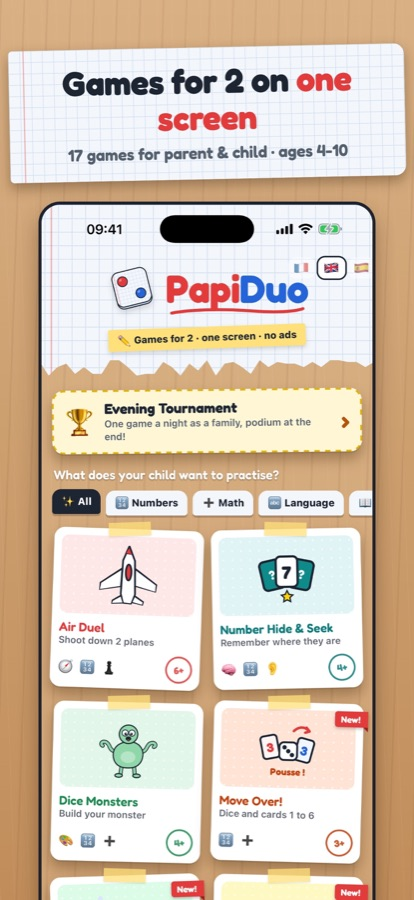
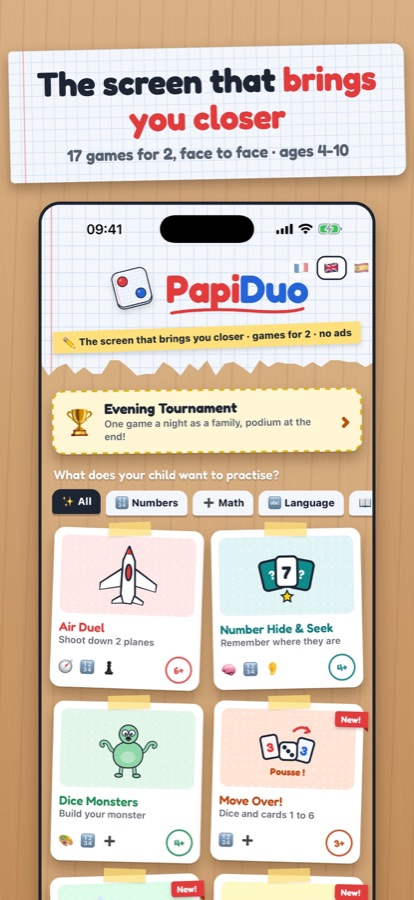
Slogan : L'écran qui rapproche (fr/en/es)

diff --git a/es/index.html b/es/index.html
@@ -1,4 +1,4 @@
-<!DOCTYPE html><html lang="es"><head><meta charset="utf-8"><meta name="viewport" content="width=device-width,initial-scale=1"><title>PapiDuo — Juegos para dos en familia, sin anuncios</title><meta name="description" content="17 juegos educativos para dos en una pantalla para niños de 4 a 10 años y sus padres: cálculo, sonidos, lógica, programación, dibujo. Sin anuncios, sin conexión."><link rel="alternate" hreflang="fr" href="https://otymix.github.io/papiduo/index.html"><link rel="alternate" hreflang="en" href="https://otymix.github.io/papiduo/en/index.html"><link rel="alternate" hreflang="es" href="https://otymix.github.io/papiduo/es/index.html"><link rel="alternate" hreflang="x-default" href="https://otymix.github.io/papiduo/en/index.html"><link rel="icon" href="../assets/favicon.png"><link rel="apple-touch-icon" href="../assets/apple-touch-icon.png"><link rel="stylesheet" href="../assets/site.css"><meta property="og:title" content="PapiDuo — Juegos para dos en familia, sin anuncios"><meta property="og:description" content="17 juegos educativos para dos en una pantalla para niños de 4 a 10 años y sus padres: cálculo, sonidos, lógica, programación, dibujo. Sin anuncios, sin conexión."><meta property="og:image" content="https://otymix.github.io/papiduo/assets/og.jpg"><meta property="og:url" content="https://otymix.github.io/papiduo/es/index.html"><meta name="theme-color" content="#c99a68"></head><body><nav class="wrap"><a class="brand" href="../es/index.html"><svg viewBox="0 0 512 512" aria-hidden="true">
+<!DOCTYPE html><html lang="es"><head><meta charset="utf-8"><meta name="viewport" content="width=device-width,initial-scale=1"><title>PapiDuo — La pantalla que os acerca · juegos para dos en familia</title><meta name="description" content="17 juegos educativos para dos en una pantalla para niños de 4 a 10 años y sus padres: cálculo, sonidos, lógica, programación, dibujo. Sin anuncios, sin conexión."><link rel="alternate" hreflang="fr" href="https://otymix.github.io/papiduo/index.html"><link rel="alternate" hreflang="en" href="https://otymix.github.io/papiduo/en/index.html"><link rel="alternate" hreflang="es" href="https://otymix.github.io/papiduo/es/index.html"><link rel="alternate" hreflang="x-default" href="https://otymix.github.io/papiduo/en/index.html"><link rel="icon" href="../assets/favicon.png"><link rel="apple-touch-icon" href="../assets/apple-touch-icon.png"><link rel="stylesheet" href="../assets/site.css"><meta property="og:title" content="PapiDuo — La pantalla que os acerca · juegos para dos en familia"><meta property="og:description" content="17 juegos educativos para dos en una pantalla para niños de 4 a 10 años y sus padres: cálculo, sonidos, lógica, programación, dibujo. Sin anuncios, sin conexión."><meta property="og:image" content="https://otymix.github.io/papiduo/assets/og.jpg"><meta property="og:url" content="https://otymix.github.io/papiduo/es/index.html"><meta name="theme-color" content="#c99a68"></head><body><nav class="wrap"><a class="brand" href="../es/index.html"><svg viewBox="0 0 512 512" aria-hidden="true">
   <!-- PapiDuo — « le dé du duo » : un dé en papier quadrillé, face 2, un point par joueur (rouge / bleu). -->
   <defs>
     <clipPath id="pdFace"><rect x="86" y="76" width="340" height="340" rx="64"/></clipPath>
@@ -23,7 +23,7 @@
     <ellipse cx="314" cy="302" rx="15" ry="10" fill="#fff" opacity=".4" transform="rotate(-35 314 302)"/>
   </g>
 </svg>
-<span class="wm"><span class="r">Papi</span><span class="b">Duo</span></span></a><div class="links"><a href="../es/index.html#jeux">Los juegos</a><a href="../es/ayuda.html">Ayuda</a><a href="../es/privacidad.html">Privacidad</a><span class="langsw"><a href="../index.html" class="" hreflang="fr" aria-label="Français">🇫🇷</a><a href="../en/index.html" class="" hreflang="en" aria-label="English">🇬🇧</a><a href="../es/index.html" class="sel" hreflang="es" aria-label="Español">🇪🇸</a></span></div></nav><main class="wrap"><div class="paper hero"><div><span class="sticker">✏ Juegos para 2 · una pantalla · sin anuncios</span><h1>Juegos para dos para <span class="r">aprender</span> <span class="b">jugando juntos</span></h1><p class="lead">Poned el teléfono o la tableta entre los dos: cada uno en su lado, cara a cara. 17 juegos de «lápiz, papel y dados» para niños de 4 a 10 años y sus padres.</p><a class="btn" href="https://apps.apple.com/app/id6832245358"><span style="font-size:28px">📱</span><span><small>Descárgalo en el</small><span class="big">App Store</span></span></a><div class="pills"><span class=pill>🚫 Sin anuncios</span><span class=pill>📴 Sin conexión</span><span class=pill>🔒 Sin recogida de datos</span><span class=pill>⏱ Partidas de 5 min</span><span class=pill>🌍 Español · English · Français</span></div></div><img class="phone" src="../assets/shots/es/01_home.jpg" alt="Captura de PapiDuo"></div><section><div class="paper tour"><div><h2>🏆 Novedad: el Torneo de la Noche</h2><p>Un juego cada noche, en familia, durante 7, 15 o 21 noches. Escribid los nombres (de 2 a 4 jugadores): cada noche, PapiDuo elige el juego y los duelos, cuenta los puntos y propone revanchas.</p><ul><li>🏅 Un podio y medallas para <b>todos</b>, incluso los más pequeños</li><li>🔁 Revanchas cuando vuelve un juego</li><li>🔔 Un recordatorio por la noche, activado por un adulto</li><li>🌙 ¿Una noche sin jugar? Seguimos al día siguiente</li></ul></div><img src="../assets/shots/es/02_tournoi_fin.jpg" alt="Captura de PapiDuo" loading="lazy"></div></section><section><h2 class="t">¿Por qué PapiDuo?</h2><div class="why"><div class="paper card"><div class="em">🤝</div><h3>Cara a cara</h3><p>Una sola pantalla entre los dos: cada jugador tiene su lado y la mitad de enfrente está girada. Os miráis, os reís y jugáis <b>juntos</b>.</p></div><div class="paper card"><div class="em">🧠</div><h3>Cada juego enseña algo</h3><p>Cálculo y tablas, sonidos y ortografía, memoria, lógica, programación, formas… Elige lo que tu peque quiere practicar.</p></div><div class="paper card"><div class="em">⚖</div><h3>Tu peque tiene su oportunidad</h3><p>Niveles de 4 a 10 años, ayuditas para equilibrar adulto y niño, pistas que explican en lugar de castigar y una voz para quien aún no lee.</p></div></div></section><section id="jeux"><h2 class="t">17 juegos, una habilidad cada uno</h2><div class="games"><div class="fiche" style="--c:#e23b3b;--bg:#fde8e8;--rot:-1.8deg"><span class="tape"></span><div class="art"><svg viewBox="-1.6 -1.6 3.2 3.2"><g stroke="#1d2533" stroke-width=".09" stroke-linejoin="round" fill="#fff">
+<span class="wm"><span class="r">Papi</span><span class="b">Duo</span></span></a><div class="links"><a href="../es/index.html#jeux">Los juegos</a><a href="../es/ayuda.html">Ayuda</a><a href="../es/privacidad.html">Privacidad</a><span class="langsw"><a href="../index.html" class="" hreflang="fr" aria-label="Français">🇫🇷</a><a href="../en/index.html" class="" hreflang="en" aria-label="English">🇬🇧</a><a href="../es/index.html" class="sel" hreflang="es" aria-label="Español">🇪🇸</a></span></div></nav><main class="wrap"><div class="paper hero"><div><span class="sticker">✏ Juegos para 2 · una pantalla · sin anuncios</span><h1>La pantalla que <span class="r">os acerca</span></h1><p class="lead">El problema no es la pantalla, sino lo que hacemos con ella. Poned el teléfono entre los dos, cada uno en su lado, cara a cara: 17 juegos de 5 minutos para reír juntos mientras tu peque practica cálculo, palabras, lógica y memoria. Sin anuncios, sin conexión… y pensado para dejarlo después.</p><a class="btn" href="https://apps.apple.com/app/id6832245358"><span style="font-size:28px">📱</span><span><small>Descárgalo en el</small><span class="big">App Store</span></span></a><div class="pills"><span class=pill>🚫 Sin anuncios</span><span class=pill>📴 Sin conexión</span><span class=pill>🔒 Sin recogida de datos</span><span class=pill>⏱ Partidas de 5 min</span><span class=pill>🌍 Español · English · Français</span></div></div><img class="phone" src="../assets/shots/es/01_home.jpg" alt="Captura de PapiDuo"></div><section><div class="paper tour"><div><h2>🏆 Novedad: el Torneo de la Noche</h2><p>Un juego cada noche, en familia, durante 7, 15 o 21 noches. Escribid los nombres (de 2 a 4 jugadores): cada noche, PapiDuo elige el juego y los duelos, cuenta los puntos y propone revanchas.</p><ul><li>🏅 Un podio y medallas para <b>todos</b>, incluso los más pequeños</li><li>🔁 Revanchas cuando vuelve un juego</li><li>🔔 Un recordatorio por la noche, activado por un adulto</li><li>🌙 ¿Una noche sin jugar? Seguimos al día siguiente</li></ul></div><img src="../assets/shots/es/02_tournoi_fin.jpg" alt="Captura de PapiDuo" loading="lazy"></div></section><section><h2 class="t">¿Por qué PapiDuo?</h2><div class="why"><div class="paper card"><div class="em">🤝</div><h3>Cara a cara</h3><p>Una sola pantalla entre los dos: cada jugador tiene su lado y la mitad de enfrente está girada. Os miráis, os reís y jugáis <b>juntos</b>.</p></div><div class="paper card"><div class="em">🧠</div><h3>Cada juego enseña algo</h3><p>Cálculo y tablas, sonidos y ortografía, memoria, lógica, programación, formas… Elige lo que tu peque quiere practicar.</p></div><div class="paper card"><div class="em">⚖</div><h3>Tu peque tiene su oportunidad</h3><p>Niveles de 4 a 10 años, ayuditas para equilibrar adulto y niño, pistas que explican en lugar de castigar y una voz para quien aún no lee.</p></div></div></section><section id="jeux"><h2 class="t">17 juegos, una habilidad cada uno</h2><div class="games"><div class="fiche" style="--c:#e23b3b;--bg:#fde8e8;--rot:-1.8deg"><span class="tape"></span><div class="art"><svg viewBox="-1.6 -1.6 3.2 3.2"><g stroke="#1d2533" stroke-width=".09" stroke-linejoin="round" fill="#fff">
         <path d="M.32-.35 1.42.42 1.42.78.36.55ZM-.32-.35-1.42.42-1.42.78-.36.55Z"/><path d="M.22.95.78 1.3.78 1.46.22 1.38ZM-.22.95-.78 1.3-.78 1.46-.22 1.38Z"/>
         <path d="M0-1.48.3-.75.36.95.2 1.42-.2 1.42-.36.95-.3-.75Z"/><path d="M0-1.48.17-1.08-.17-1.08Z" fill="#e23b3b"/><ellipse cx="0" cy="-.15" rx=".14" ry=".4" fill="#e23b3b"/></g></svg></div><h3>Duelo Aéreo</h3><p>Derriba 2 aviones</p></div><div class="fiche" style="--c:#0e7c7c;--bg:#dff4f4;--rot:1.6deg"><span class="tape"></span><div class="art"><svg viewBox="0 0 100 100"><g stroke="#1d2533" stroke-width="3.5" stroke-linejoin="round">
 <rect x="10" y="26" width="34" height="46" rx="7" fill="#0e8a8a" transform="rotate(-12 27 49)"/>

diff --git a/index.html b/index.html
@@ -1,4 +1,4 @@
-<!DOCTYPE html><html lang="fr"><head><meta charset="utf-8"><meta name="viewport" content="width=device-width,initial-scale=1"><title>PapiDuo — Jeux à 2 en famille, sans pub</title><meta name="description" content="17 jeux éducatifs à deux sur le même écran pour les 4-10 ans et leurs parents : calcul, sons, logique, programmation, dessin. Sans pub, hors ligne."><link rel="alternate" hreflang="fr" href="https://otymix.github.io/papiduo/index.html"><link rel="alternate" hreflang="en" href="https://otymix.github.io/papiduo/en/index.html"><link rel="alternate" hreflang="es" href="https://otymix.github.io/papiduo/es/index.html"><link rel="alternate" hreflang="x-default" href="https://otymix.github.io/papiduo/en/index.html"><link rel="icon" href="assets/favicon.png"><link rel="apple-touch-icon" href="assets/apple-touch-icon.png"><link rel="stylesheet" href="assets/site.css"><meta property="og:title" content="PapiDuo — Jeux à 2 en famille, sans pub"><meta property="og:description" content="17 jeux éducatifs à deux sur le même écran pour les 4-10 ans et leurs parents : calcul, sons, logique, programmation, dessin. Sans pub, hors ligne."><meta property="og:image" content="https://otymix.github.io/papiduo/assets/og.jpg"><meta property="og:url" content="https://otymix.github.io/papiduo/index.html"><meta name="theme-color" content="#c99a68"></head><body><nav class="wrap"><a class="brand" href="index.html"><svg viewBox="0 0 512 512" aria-hidden="true">
+<!DOCTYPE html><html lang="fr"><head><meta charset="utf-8"><meta name="viewport" content="width=device-width,initial-scale=1"><title>PapiDuo — L'écran qui rapproche · jeux à 2 en famille</title><meta name="description" content="17 jeux éducatifs à deux sur le même écran pour les 4-10 ans et leurs parents : calcul, sons, logique, programmation, dessin. Sans pub, hors ligne."><link rel="alternate" hreflang="fr" href="https://otymix.github.io/papiduo/index.html"><link rel="alternate" hreflang="en" href="https://otymix.github.io/papiduo/en/index.html"><link rel="alternate" hreflang="es" href="https://otymix.github.io/papiduo/es/index.html"><link rel="alternate" hreflang="x-default" href="https://otymix.github.io/papiduo/en/index.html"><link rel="icon" href="assets/favicon.png"><link rel="apple-touch-icon" href="assets/apple-touch-icon.png"><link rel="stylesheet" href="assets/site.css"><meta property="og:title" content="PapiDuo — L&#x27;écran qui rapproche · jeux à 2 en famille"><meta property="og:description" content="17 jeux éducatifs à deux sur le même écran pour les 4-10 ans et leurs parents : calcul, sons, logique, programmation, dessin. Sans pub, hors ligne."><meta property="og:image" content="https://otymix.github.io/papiduo/assets/og.jpg"><meta property="og:url" content="https://otymix.github.io/papiduo/index.html"><meta name="theme-color" content="#c99a68"></head><body><nav class="wrap"><a class="brand" href="index.html"><svg viewBox="0 0 512 512" aria-hidden="true">
   <!-- PapiDuo — « le dé du duo » : un dé en papier quadrillé, face 2, un point par joueur (rouge / bleu). -->
   <defs>
     <clipPath id="pdFace"><rect x="86" y="76" width="340" height="340" rx="64"/></clipPath>
@@ -23,7 +23,7 @@
     <ellipse cx="314" cy="302" rx="15" ry="10" fill="#fff" opacity=".4" transform="rotate(-35 314 302)"/>
   </g>
 </svg>
-<span class="wm"><span class="r">Papi</span><span class="b">Duo</span></span></a><div class="links"><a href="index.html#jeux">Les jeux</a><a href="aide.html">Aide</a><a href="confidentialite.html">Confidentialité</a><span class="langsw"><a href="index.html" class="sel" hreflang="fr" aria-label="Français">🇫🇷</a><a href="en/index.html" class="" hreflang="en" aria-label="English">🇬🇧</a><a href="es/index.html" class="" hreflang="es" aria-label="Español">🇪🇸</a></span></div></nav><main class="wrap"><div class="paper hero"><div><span class="sticker">✏ Jeux à 2 · même écran · sans pub</span><h1>Des jeux à deux pour <span class="r">apprendre</span> en <span class="b">jouant ensemble</span></h1><p class="lead">Posez le téléphone ou la tablette entre vous deux : chacun son côté, face à face. 17 jeux « papier, crayon et dés » pour les 4-10 ans et leurs parents.</p><a class="btn" href="https://apps.apple.com/app/id6832245358"><span style="font-size:28px">📱</span><span><small>Télécharger dans l'</small><span class="big">App Store</span></span></a><div class="pills"><span class=pill>🚫 Sans pub</span><span class=pill>📴 Hors ligne</span><span class=pill>🔒 Aucune donnée collectée</span><span class=pill>⏱ Parties de 5 min</span><span class=pill>🌍 Français · English · Español</span></div></div><img class="phone" src="assets/shots/fr/01_home.jpg" alt="Capture de PapiDuo"></div><section><div class="paper tour"><div><h2>🏆 Nouveau : le Tournoi du Soir</h2><p>Un jeu par soir, en famille, pendant 7, 15 ou 21 soirs. Entrez les prénoms (2 à 4 joueurs) : chaque soir, PapiDuo choisit le jeu et les duels, compte les points et propose des revanches.</p><ul><li>🏅 Un podium et des médailles pour <b>tout le monde</b>, même les plus petits</li><li>🔁 Des revanches quand un jeu revient</li><li>🔔 Un rappel du soir, activé par un parent</li><li>🌙 Un soir raté ? On reprend le lendemain</li></ul></div><img src="assets/shots/fr/02_tournoi_fin.jpg" alt="Capture de PapiDuo" loading="lazy"></div></section><section><h2 class="t">Pourquoi PapiDuo ?</h2><div class="why"><div class="paper card"><div class="em">🤝</div><h3>Face à face</h3><p>Un seul écran posé entre vous : chaque joueur a son côté, la moitié d'en face est retournée. On se regarde, on rit, on joue <b>ensemble</b>.</p></div><div class="paper card"><div class="em">🧠</div><h3>Chaque jeu apprend quelque chose</h3><p>Calcul et tables, sons et orthographe, mémoire, logique, programmation, formes… Choisissez ce que votre enfant veut travailler.</p></div><div class="paper card"><div class="em">⚖</div><h3>L'enfant a sa chance</h3><p>Niveaux de 4 à 10 ans, coups de pouce pour équilibrer parent et enfant, aides qui expliquent au lieu de punir, voix pour ceux qui ne lisent pas encore.</p></div></div></section><section id="jeux"><h2 class="t">17 jeux, une compétence chacun</h2><div class="games"><div class="fiche" style="--c:#e23b3b;--bg:#fde8e8;--rot:-1.8deg"><span class="tape"></span><div class="art"><svg viewBox="-1.6 -1.6 3.2 3.2"><g stroke="#1d2533" stroke-width=".09" stroke-linejoin="round" fill="#fff">
+<span class="wm"><span class="r">Papi</span><span class="b">Duo</span></span></a><div class="links"><a href="index.html#jeux">Les jeux</a><a href="aide.html">Aide</a><a href="confidentialite.html">Confidentialité</a><span class="langsw"><a href="index.html" class="sel" hreflang="fr" aria-label="Français">🇫🇷</a><a href="en/index.html" class="" hreflang="en" aria-label="English">🇬🇧</a><a href="es/index.html" class="" hreflang="es" aria-label="Español">🇪🇸</a></span></div></nav><main class="wrap"><div class="paper hero"><div><span class="sticker">✏ Jeux à 2 · même écran · sans pub</span><h1>L'écran qui <span class="r">rapproche</span></h1><p class="lead">Le problème n'est pas l'écran, c'est ce qu'on en fait. Posez le téléphone entre vous deux, chacun son côté, face à face : 17 jeux de 5 minutes pour rire ensemble pendant que votre enfant fait travailler calcul, mots, logique et mémoire. Sans pub, hors ligne… et fait pour être posé ensuite.</p><a class="btn" href="https://apps.apple.com/app/id6832245358"><span style="font-size:28px">📱</span><span><small>Télécharger dans l'</small><span class="big">App Store</span></span></a><div class="pills"><span class=pill>🚫 Sans pub</span><span class=pill>📴 Hors ligne</span><span class=pill>🔒 Aucune donnée collectée</span><span class=pill>⏱ Parties de 5 min</span><span class=pill>🌍 Français · English · Español</span></div></div><img class="phone" src="assets/shots/fr/01_home.jpg" alt="Capture de PapiDuo"></div><section><div class="paper tour"><div><h2>🏆 Nouveau : le Tournoi du Soir</h2><p>Un jeu par soir, en famille, pendant 7, 15 ou 21 soirs. Entrez les prénoms (2 à 4 joueurs) : chaque soir, PapiDuo choisit le jeu et les duels, compte les points et propose des revanches.</p><ul><li>🏅 Un podium et des médailles pour <b>tout le monde</b>, même les plus petits</li><li>🔁 Des revanches quand un jeu revient</li><li>🔔 Un rappel du soir, activé par un parent</li><li>🌙 Un soir raté ? On reprend le lendemain</li></ul></div><img src="assets/shots/fr/02_tournoi_fin.jpg" alt="Capture de PapiDuo" loading="lazy"></div></section><section><h2 class="t">Pourquoi PapiDuo ?</h2><div class="why"><div class="paper card"><div class="em">🤝</div><h3>Face à face</h3><p>Un seul écran posé entre vous : chaque joueur a son côté, la moitié d'en face est retournée. On se regarde, on rit, on joue <b>ensemble</b>.</p></div><div class="paper card"><div class="em">🧠</div><h3>Chaque jeu apprend quelque chose</h3><p>Calcul et tables, sons et orthographe, mémoire, logique, programmation, formes… Choisissez ce que votre enfant veut travailler.</p></div><div class="paper card"><div class="em">⚖</div><h3>L'enfant a sa chance</h3><p>Niveaux de 4 à 10 ans, coups de pouce pour équilibrer parent et enfant, aides qui expliquent au lieu de punir, voix pour ceux qui ne lisent pas encore.</p></div></div></section><section id="jeux"><h2 class="t">17 jeux, une compétence chacun</h2><div class="games"><div class="fiche" style="--c:#e23b3b;--bg:#fde8e8;--rot:-1.8deg"><span class="tape"></span><div class="art"><svg viewBox="-1.6 -1.6 3.2 3.2"><g stroke="#1d2533" stroke-width=".09" stroke-linejoin="round" fill="#fff">
         <path d="M.32-.35 1.42.42 1.42.78.36.55ZM-.32-.35-1.42.42-1.42.78-.36.55Z"/><path d="M.22.95.78 1.3.78 1.46.22 1.38ZM-.22.95-.78 1.3-.78 1.46-.22 1.38Z"/>
         <path d="M0-1.48.3-.75.36.95.2 1.42-.2 1.42-.36.95-.3-.75Z"/><path d="M0-1.48.17-1.08-.17-1.08Z" fill="#e23b3b"/><ellipse cx="0" cy="-.15" rx=".14" ry=".4" fill="#e23b3b"/></g></svg></div><h3>Duel Aérien</h3><p>Abats 2 avions</p></div><div class="fiche" style="--c:#0e7c7c;--bg:#dff4f4;--rot:1.6deg"><span class="tape"></span><div class="art"><svg viewBox="0 0 100 100"><g stroke="#1d2533" stroke-width="3.5" stroke-linejoin="round">
 <rect x="10" y="26" width="34" height="46" rx="7" fill="#0e8a8a" transform="rotate(-12 27 49)"/>

diff --git a/404.html b/404.html
@@ -1,4 +1,4 @@
-<!DOCTYPE html><html lang="en"><head><meta charset="utf-8"><meta name="viewport" content="width=device-width,initial-scale=1"><title>404 · PapiDuo — 2 player family games, no ads</title><meta name="description" content="17 educational games for two on one screen for kids aged 4-10 and their parents: math, phonics, logic, coding, drawing. No ads, offline."><link rel="alternate" hreflang="fr" href="https://otymix.github.io/papiduo/index.html"><link rel="alternate" hreflang="en" href="https://otymix.github.io/papiduo/en/index.html"><link rel="alternate" hreflang="es" href="https://otymix.github.io/papiduo/es/index.html"><link rel="alternate" hreflang="x-default" href="https://otymix.github.io/papiduo/en/index.html"><link rel="icon" href="/papiduo/assets/favicon.png"><link rel="apple-touch-icon" href="/papiduo/assets/apple-touch-icon.png"><link rel="stylesheet" href="/papiduo/assets/site.css"><meta property="og:title" content="PapiDuo — 2 player family games, no ads"><meta property="og:description" content="17 educational games for two on one screen for kids aged 4-10 and their parents: math, phonics, logic, coding, drawing. No ads, offline."><meta property="og:image" content="https://otymix.github.io/papiduo/assets/og.jpg"><meta property="og:url" content="https://otymix.github.io/papiduo/en/index.html"><meta name="theme-color" content="#c99a68"></head><body><nav class="wrap"><a class="brand" href="/papiduo/en/index.html"><svg viewBox="0 0 512 512" aria-hidden="true">
+<!DOCTYPE html><html lang="en"><head><meta charset="utf-8"><meta name="viewport" content="width=device-width,initial-scale=1"><title>404 · PapiDuo — The screen that brings you closer · family games for 2</title><meta name="description" content="17 educational games for two on one screen for kids aged 4-10 and their parents: math, phonics, logic, coding, drawing. No ads, offline."><link rel="alternate" hreflang="fr" href="https://otymix.github.io/papiduo/index.html"><link rel="alternate" hreflang="en" href="https://otymix.github.io/papiduo/en/index.html"><link rel="alternate" hreflang="es" href="https://otymix.github.io/papiduo/es/index.html"><link rel="alternate" hreflang="x-default" href="https://otymix.github.io/papiduo/en/index.html"><link rel="icon" href="/papiduo/assets/favicon.png"><link rel="apple-touch-icon" href="/papiduo/assets/apple-touch-icon.png"><link rel="stylesheet" href="/papiduo/assets/site.css"><meta property="og:title" content="PapiDuo — The screen that brings you closer · family games for 2"><meta property="og:description" content="17 educational games for two on one screen for kids aged 4-10 and their parents: math, phonics, logic, coding, drawing. No ads, offline."><meta property="og:image" content="https://otymix.github.io/papiduo/assets/og.jpg"><meta property="og:url" content="https://otymix.github.io/papiduo/en/index.html"><meta name="theme-color" content="#c99a68"></head><body><nav class="wrap"><a class="brand" href="/papiduo/en/index.html"><svg viewBox="0 0 512 512" aria-hidden="true">
   <!-- PapiDuo — « le dé du duo » : un dé en papier quadrillé, face 2, un point par joueur (rouge / bleu). -->
   <defs>
     <clipPath id="pdFace"><rect x="86" y="76" width="340" height="340" rx="64"/></clipPath>
@@ -23,7 +23,7 @@
     <ellipse cx="314" cy="302" rx="15" ry="10" fill="#fff" opacity=".4" transform="rotate(-35 314 302)"/>
   </g>
 </svg>
-<span class="wm"><span class="r">Papi</span><span class="b">Duo</span></span></a><div class="links"><a href="/papiduo/en/index.html#jeux">The games</a><a href="/papiduo/en/help.html">Help</a><a href="/papiduo/en/privacy.html">Privacy</a><span class="langsw"><a href="/papiduo/index.html" class="" hreflang="fr" aria-label="Français">🇫🇷</a><a href="/papiduo/en/index.html" class="sel" hreflang="en" aria-label="English">🇬🇧</a><a href="/papiduo/es/index.html" class="" hreflang="es" aria-label="Español">🇪🇸</a></span></div></nav><main class="wrap"><div class="paper hero"><div><span class="sticker">✏ Games for 2 · one screen · no ads</span><h1>Games for two to <span class="r">learn</span> by <span class="b">playing together</span></h1><p class="lead">Put the phone or tablet between you: one side each, face to face. 17 “pencil, paper and dice” games for kids aged 4-10 and their parents.</p><a class="btn" href="https://apps.apple.com/app/id6832245358"><span style="font-size:28px">📱</span><span><small>Download on the</small><span class="big">App Store</span></span></a><div class="pills"><span class=pill>🚫 No ads</span><span class=pill>📴 Offline</span><span class=pill>🔒 No data collected</span><span class=pill>⏱ 5-minute games</span><span class=pill>🌍 English · Español · Français</span></div></div><img class="phone" src="/papiduo/assets/shots/en/01_home.jpg" alt="PapiDuo screenshot"></div><section><div class="paper tour"><div><h2>🏆 New: the Evening Tournament</h2><p>One game a night, as a family, for 7, 15 or 21 evenings. Enter the names (2 to 4 players): every evening, PapiDuo picks the game and the matches, keeps score and offers rematches.</p><ul><li>🏅 A podium and medals for <b>everyone</b>, even the youngest</li><li>🔁 Rematches when a game comes back</li><li>🔔 An evening reminder, turned on by a parent</li><li>🌙 Missed an evening? Just carry on the next day</li></ul></div><img src="/papiduo/assets/shots/en/02_tournoi_fin.jpg" alt="PapiDuo screenshot" loading="lazy"></div></section><section><h2 class="t">Why PapiDuo?</h2><div class="why"><div class="paper card"><div class="em">🤝</div><h3>Face to face</h3><p>One screen between you: each player has their side, the far half is turned around. You look at each other, laugh and play <b>together</b>.</p></div><div class="paper card"><div class="em">🧠</div><h3>Every game teaches something</h3><p>Math and times tables, phonics and spelling, memory, logic, coding, shapes… Choose what your child wants to practise.</p></div><div class="paper card"><div class="em">⚖</div><h3>Your child has a real chance</h3><p>Levels from age 4 to 10, head starts to balance parent and child, hints that explain instead of punishing, a voice for kids who can't read yet.</p></div></div></section><section id="jeux"><h2 class="t">17 games, one skill each</h2><div class="games"><div class="fiche" style="--c:#e23b3b;--bg:#fde8e8;--rot:-1.8deg"><span class="tape"></span><div class="art"><svg viewBox="-1.6 -1.6 3.2 3.2"><g stroke="#1d2533" stroke-width=".09" stroke-linejoin="round" fill="#fff">
+<span class="wm"><span class="r">Papi</span><span class="b">Duo</span></span></a><div class="links"><a href="/papiduo/en/index.html#jeux">The games</a><a href="/papiduo/en/help.html">Help</a><a href="/papiduo/en/privacy.html">Privacy</a><span class="langsw"><a href="/papiduo/index.html" class="" hreflang="fr" aria-label="Français">🇫🇷</a><a href="/papiduo/en/index.html" class="sel" hreflang="en" aria-label="English">🇬🇧</a><a href="/papiduo/es/index.html" class="" hreflang="es" aria-label="Español">🇪🇸</a></span></div></nav><main class="wrap"><div class="paper hero"><div><span class="sticker">✏ Games for 2 · one screen · no ads</span><h1>The screen that <span class="r">brings you closer</span></h1><p class="lead">The problem isn't the screen, it's what we do with it. Put the phone between you, one side each, face to face: 17 five-minute games to laugh together while your child practises math, words, logic and memory. No ads, offline… and made to be put down afterwards.</p><a class="btn" href="https://apps.apple.com/app/id6832245358"><span style="font-size:28px">📱</span><span><small>Download on the</small><span class="big">App Store</span></span></a><div class="pills"><span class=pill>🚫 No ads</span><span class=pill>📴 Offline</span><span class=pill>🔒 No data collected</span><span class=pill>⏱ 5-minute games</span><span class=pill>🌍 English · Español · Français</span></div></div><img class="phone" src="/papiduo/assets/shots/en/01_home.jpg" alt="PapiDuo screenshot"></div><section><div class="paper tour"><div><h2>🏆 New: the Evening Tournament</h2><p>One game a night, as a family, for 7, 15 or 21 evenings. Enter the names (2 to 4 players): every evening, PapiDuo picks the game and the matches, keeps score and offers rematches.</p><ul><li>🏅 A podium and medals for <b>everyone</b>, even the youngest</li><li>🔁 Rematches when a game comes back</li><li>🔔 An evening reminder, turned on by a parent</li><li>🌙 Missed an evening? Just carry on the next day</li></ul></div><img src="/papiduo/assets/shots/en/02_tournoi_fin.jpg" alt="PapiDuo screenshot" loading="lazy"></div></section><section><h2 class="t">Why PapiDuo?</h2><div class="why"><div class="paper card"><div class="em">🤝</div><h3>Face to face</h3><p>One screen between you: each player has their side, the far half is turned around. You look at each other, laugh and play <b>together</b>.</p></div><div class="paper card"><div class="em">🧠</div><h3>Every game teaches something</h3><p>Math and times tables, phonics and spelling, memory, logic, coding, shapes… Choose what your child wants to practise.</p></div><div class="paper card"><div class="em">⚖</div><h3>Your child has a real chance</h3><p>Levels from age 4 to 10, head starts to balance parent and child, hints that explain instead of punishing, a voice for kids who can't read yet.</p></div></div></section><section id="jeux"><h2 class="t">17 games, one skill each</h2><div class="games"><div class="fiche" style="--c:#e23b3b;--bg:#fde8e8;--rot:-1.8deg"><span class="tape"></span><div class="art"><svg viewBox="-1.6 -1.6 3.2 3.2"><g stroke="#1d2533" stroke-width=".09" stroke-linejoin="round" fill="#fff">
         <path d="M.32-.35 1.42.42 1.42.78.36.55ZM-.32-.35-1.42.42-1.42.78-.36.55Z"/><path d="M.22.95.78 1.3.78 1.46.22 1.38ZM-.22.95-.78 1.3-.78 1.46-.22 1.38Z"/>
         <path d="M0-1.48.3-.75.36.95.2 1.42-.2 1.42-.36.95-.3-.75Z"/><path d="M0-1.48.17-1.08-.17-1.08Z" fill="#e23b3b"/><ellipse cx="0" cy="-.15" rx=".14" ry=".4" fill="#e23b3b"/></g></svg></div><h3>Air Duel</h3><p>Shoot down 2 planes</p></div><div class="fiche" style="--c:#0e7c7c;--bg:#dff4f4;--rot:1.6deg"><span class="tape"></span><div class="art"><svg viewBox="0 0 100 100"><g stroke="#1d2533" stroke-width="3.5" stroke-linejoin="round">
 <rect x="10" y="26" width="34" height="46" rx="7" fill="#0e8a8a" transform="rotate(-12 27 49)"/>

diff --git a/en/index.html b/en/index.html
@@ -1,4 +1,4 @@
-<!DOCTYPE html><html lang="en"><head><meta charset="utf-8"><meta name="viewport" content="width=device-width,initial-scale=1"><title>PapiDuo — 2 player family games, no ads</title><meta name="description" content="17 educational games for two on one screen for kids aged 4-10 and their parents: math, phonics, logic, coding, drawing. No ads, offline."><link rel="alternate" hreflang="fr" href="https://otymix.github.io/papiduo/index.html"><link rel="alternate" hreflang="en" href="https://otymix.github.io/papiduo/en/index.html"><link rel="alternate" hreflang="es" href="https://otymix.github.io/papiduo/es/index.html"><link rel="alternate" hreflang="x-default" href="https://otymix.github.io/papiduo/en/index.html"><link rel="icon" href="../assets/favicon.png"><link rel="apple-touch-icon" href="../assets/apple-touch-icon.png"><link rel="stylesheet" href="../assets/site.css"><meta property="og:title" content="PapiDuo — 2 player family games, no ads"><meta property="og:description" content="17 educational games for two on one screen for kids aged 4-10 and their parents: math, phonics, logic, coding, drawing. No ads, offline."><meta property="og:image" content="https://otymix.github.io/papiduo/assets/og.jpg"><meta property="og:url" content="https://otymix.github.io/papiduo/en/index.html"><meta name="theme-color" content="#c99a68"></head><body><nav class="wrap"><a class="brand" href="../en/index.html"><svg viewBox="0 0 512 512" aria-hidden="true">
+<!DOCTYPE html><html lang="en"><head><meta charset="utf-8"><meta name="viewport" content="width=device-width,initial-scale=1"><title>PapiDuo — The screen that brings you closer · family games for 2</title><meta name="description" content="17 educational games for two on one screen for kids aged 4-10 and their parents: math, phonics, logic, coding, drawing. No ads, offline."><link rel="alternate" hreflang="fr" href="https://otymix.github.io/papiduo/index.html"><link rel="alternate" hreflang="en" href="https://otymix.github.io/papiduo/en/index.html"><link rel="alternate" hreflang="es" href="https://otymix.github.io/papiduo/es/index.html"><link rel="alternate" hreflang="x-default" href="https://otymix.github.io/papiduo/en/index.html"><link rel="icon" href="../assets/favicon.png"><link rel="apple-touch-icon" href="../assets/apple-touch-icon.png"><link rel="stylesheet" href="../assets/site.css"><meta property="og:title" content="PapiDuo — The screen that brings you closer · family games for 2"><meta property="og:description" content="17 educational games for two on one screen for kids aged 4-10 and their parents: math, phonics, logic, coding, drawing. No ads, offline."><meta property="og:image" content="https://otymix.github.io/papiduo/assets/og.jpg"><meta property="og:url" content="https://otymix.github.io/papiduo/en/index.html"><meta name="theme-color" content="#c99a68"></head><body><nav class="wrap"><a class="brand" href="../en/index.html"><svg viewBox="0 0 512 512" aria-hidden="true">
   <!-- PapiDuo — « le dé du duo » : un dé en papier quadrillé, face 2, un point par joueur (rouge / bleu). -->
   <defs>
     <clipPath id="pdFace"><rect x="86" y="76" width="340" height="340" rx="64"/></clipPath>
@@ -23,7 +23,7 @@
     <ellipse cx="314" cy="302" rx="15" ry="10" fill="#fff" opacity=".4" transform="rotate(-35 314 302)"/>
   </g>
 </svg>
-<span class="wm"><span class="r">Papi</span><span class="b">Duo</span></span></a><div class="links"><a href="../en/index.html#jeux">The games</a><a href="../en/help.html">Help</a><a href="../en/privacy.html">Privacy</a><span class="langsw"><a href="../index.html" class="" hreflang="fr" aria-label="Français">🇫🇷</a><a href="../en/index.html" class="sel" hreflang="en" aria-label="English">🇬🇧</a><a href="../es/index.html" class="" hreflang="es" aria-label="Español">🇪🇸</a></span></div></nav><main class="wrap"><div class="paper hero"><div><span class="sticker">✏ Games for 2 · one screen · no ads</span><h1>Games for two to <span class="r">learn</span> by <span class="b">playing together</span></h1><p class="lead">Put the phone or tablet between you: one side each, face to face. 17 “pencil, paper and dice” games for kids aged 4-10 and their parents.</p><a class="btn" href="https://apps.apple.com/app/id6832245358"><span style="font-size:28px">📱</span><span><small>Download on the</small><span class="big">App Store</span></span></a><div class="pills"><span class=pill>🚫 No ads</span><span class=pill>📴 Offline</span><span class=pill>🔒 No data collected</span><span class=pill>⏱ 5-minute games</span><span class=pill>🌍 English · Español · Français</span></div></div><img class="phone" src="../assets/shots/en/01_home.jpg" alt="PapiDuo screenshot"></div><section><div class="paper tour"><div><h2>🏆 New: the Evening Tournament</h2><p>One game a night, as a family, for 7, 15 or 21 evenings. Enter the names (2 to 4 players): every evening, PapiDuo picks the game and the matches, keeps score and offers rematches.</p><ul><li>🏅 A podium and medals for <b>everyone</b>, even the youngest</li><li>🔁 Rematches when a game comes back</li><li>🔔 An evening reminder, turned on by a parent</li><li>🌙 Missed an evening? Just carry on the next day</li></ul></div><img src="../assets/shots/en/02_tournoi_fin.jpg" alt="PapiDuo screenshot" loading="lazy"></div></section><section><h2 class="t">Why PapiDuo?</h2><div class="why"><div class="paper card"><div class="em">🤝</div><h3>Face to face</h3><p>One screen between you: each player has their side, the far half is turned around. You look at each other, laugh and play <b>together</b>.</p></div><div class="paper card"><div class="em">🧠</div><h3>Every game teaches something</h3><p>Math and times tables, phonics and spelling, memory, logic, coding, shapes… Choose what your child wants to practise.</p></div><div class="paper card"><div class="em">⚖</div><h3>Your child has a real chance</h3><p>Levels from age 4 to 10, head starts to balance parent and child, hints that explain instead of punishing, a voice for kids who can't read yet.</p></div></div></section><section id="jeux"><h2 class="t">17 games, one skill each</h2><div class="games"><div class="fiche" style="--c:#e23b3b;--bg:#fde8e8;--rot:-1.8deg"><span class="tape"></span><div class="art"><svg viewBox="-1.6 -1.6 3.2 3.2"><g stroke="#1d2533" stroke-width=".09" stroke-linejoin="round" fill="#fff">
+<span class="wm"><span class="r">Papi</span><span class="b">Duo</span></span></a><div class="links"><a href="../en/index.html#jeux">The games</a><a href="../en/help.html">Help</a><a href="../en/privacy.html">Privacy</a><span class="langsw"><a href="../index.html" class="" hreflang="fr" aria-label="Français">🇫🇷</a><a href="../en/index.html" class="sel" hreflang="en" aria-label="English">🇬🇧</a><a href="../es/index.html" class="" hreflang="es" aria-label="Español">🇪🇸</a></span></div></nav><main class="wrap"><div class="paper hero"><div><span class="sticker">✏ Games for 2 · one screen · no ads</span><h1>The screen that <span class="r">brings you closer</span></h1><p class="lead">The problem isn't the screen, it's what we do with it. Put the phone between you, one side each, face to face: 17 five-minute games to laugh together while your child practises math, words, logic and memory. No ads, offline… and made to be put down afterwards.</p><a class="btn" href="https://apps.apple.com/app/id6832245358"><span style="font-size:28px">📱</span><span><small>Download on the</small><span class="big">App Store</span></span></a><div class="pills"><span class=pill>🚫 No ads</span><span class=pill>📴 Offline</span><span class=pill>🔒 No data collected</span><span class=pill>⏱ 5-minute games</span><span class=pill>🌍 English · Español · Français</span></div></div><img class="phone" src="../assets/shots/en/01_home.jpg" alt="PapiDuo screenshot"></div><section><div class="paper tour"><div><h2>🏆 New: the Evening Tournament</h2><p>One game a night, as a family, for 7, 15 or 21 evenings. Enter the names (2 to 4 players): every evening, PapiDuo picks the game and the matches, keeps score and offers rematches.</p><ul><li>🏅 A podium and medals for <b>everyone</b>, even the youngest</li><li>🔁 Rematches when a game comes back</li><li>🔔 An evening reminder, turned on by a parent</li><li>🌙 Missed an evening? Just carry on the next day</li></ul></div><img src="../assets/shots/en/02_tournoi_fin.jpg" alt="PapiDuo screenshot" loading="lazy"></div></section><section><h2 class="t">Why PapiDuo?</h2><div class="why"><div class="paper card"><div class="em">🤝</div><h3>Face to face</h3><p>One screen between you: each player has their side, the far half is turned around. You look at each other, laugh and play <b>together</b>.</p></div><div class="paper card"><div class="em">🧠</div><h3>Every game teaches something</h3><p>Math and times tables, phonics and spelling, memory, logic, coding, shapes… Choose what your child wants to practise.</p></div><div class="paper card"><div class="em">⚖</div><h3>Your child has a real chance</h3><p>Levels from age 4 to 10, head starts to balance parent and child, hints that explain instead of punishing, a voice for kids who can't read yet.</p></div></div></section><section id="jeux"><h2 class="t">17 games, one skill each</h2><div class="games"><div class="fiche" style="--c:#e23b3b;--bg:#fde8e8;--rot:-1.8deg"><span class="tape"></span><div class="art"><svg viewBox="-1.6 -1.6 3.2 3.2"><g stroke="#1d2533" stroke-width=".09" stroke-linejoin="round" fill="#fff">
         <path d="M.32-.35 1.42.42 1.42.78.36.55ZM-.32-.35-1.42.42-1.42.78-.36.55Z"/><path d="M.22.95.78 1.3.78 1.46.22 1.38ZM-.22.95-.78 1.3-.78 1.46-.22 1.38Z"/>
         <path d="M0-1.48.3-.75.36.95.2 1.42-.2 1.42-.36.95-.3-.75Z"/><path d="M0-1.48.17-1.08-.17-1.08Z" fill="#e23b3b"/><ellipse cx="0" cy="-.15" rx=".14" ry=".4" fill="#e23b3b"/></g></svg></div><h3>Air Duel</h3><p>Shoot down 2 planes</p></div><div class="fiche" style="--c:#0e7c7c;--bg:#dff4f4;--rot:1.6deg"><span class="tape"></span><div class="art"><svg viewBox="0 0 100 100"><g stroke="#1d2533" stroke-width="3.5" stroke-linejoin="round">
 <rect x="10" y="26" width="34" height="46" rx="7" fill="#0e8a8a" transform="rotate(-12 27 49)"/>
